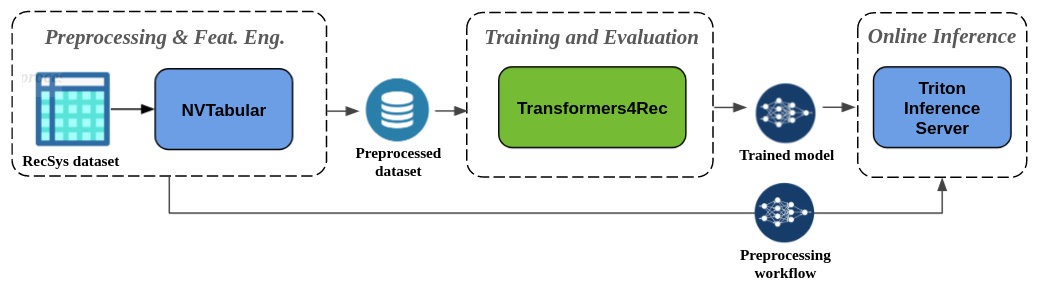
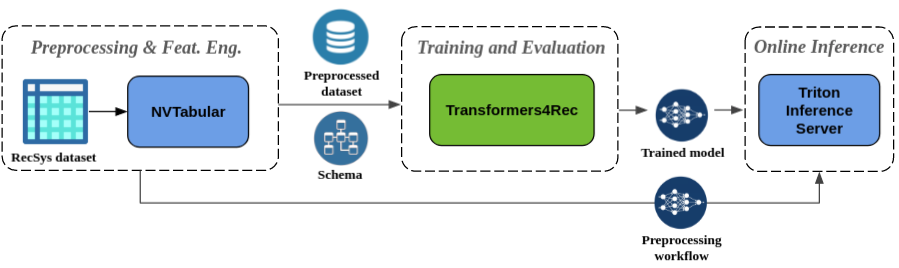
Adjustment in the docs according to Marc's feedbacks

Changed region(s): [[0.0, 0.0299, 0.9967, 0.9851], [0.0, 0.0299, 0.3115, 0.0597], [0.436, 0.0299, 0.6852, 0.0597]]

diff --git a/docs/source/core_features.md b/docs/source/core_features.md
@@ -2,9 +2,11 @@
 
 Over the past decade there has been a trend toward leveraging and adapting approaches proposed by Natural Language Processing (NLP) research like Word2Vec, GRU, and Attention for recommender systems (RecSys). The phenomena is especially noticeable for sequential and session-based recommendation where the sequential processing of users interactions is analogous to the language modeling (LM) task and many key RecSys architectures have been adapted from NLP, like GRU4Rec -- the seminal Recurrent Neural Network (RNN)-based architecture for session-based recommendation.
 
-More recently, Transformer architectures have become the dominant technique over convolutional and recurrent neural networks for language modeling tasks. Because of their efficient parallel training, these architectures scale well with training data and model size, and are effective at modeling long-range sequences. They have similarly been applied to sequential recommendation in architectures like SASRec, BERT4Rec and BST and more recently to session-based recommendation.
+More recently, Transformer architectures have become the dominant technique over convolutional and recurrent neural networks for language modeling tasks. Because of their efficient parallel training, these architectures scale well with training data and model size, and are effective at modeling long-range sequences. 
 
-You can read more about this relationship between NLP and RecSys and the evolution of the architectures for sequential and session-based recommendation in our [ACM RecSys'21 paper](https://github.com/NVIDIA-Merlin/publications/blob/main/2021_acm_recsys_transformers4rec/recsys21_transformers4rec_paper.pdf).
+Transformers have similarly been applied to sequential recommendation in architectures like [SASRec](https://arxiv.org/abs/1808.09781), [BERT4Rec](https://arxiv.org/abs/1904.06690) and [BST](https://arxiv.org/pdf/1905.06874.pdf%C2%A0), providing higher accuracy than architectures based on CNN and RNNs, as can be seen in their reported experiments and also in our [ACM RecSys'21 paper](https://github.com/NVIDIA-Merlin/publications/blob/main/2021_acm_recsys_transformers4rec/recsys21_transformers4rec_paper.pdf). 
+
+You can read more about this relationship between NLP and RecSys and the evolution of the architectures for sequential and session-based recommendation towards Transformers in our [paper](https://github.com/NVIDIA-Merlin/publications/blob/main/2021_acm_recsys_transformers4rec/recsys21_transformers4rec_paper.pdf) too.
 
 <div style="text-align: center; margin: 20pt"><img src="../../images/nlp_x_recsys.png" alt="A timeline illustrating the influence of NLP research in Recommender Systems" style="width:800px;"/><figcaption>Fig. 1 - A timeline illustrating the influence of NLP research in Recommender Systems, from the <a href="https://github.com/NVIDIA-Merlin/publications/blob/main/2021_acm_recsys_transformers4rec/recsys21_transformers4rec_paper.pdf)">Transformers4Rec paper</a></figcaption></div>
 
@@ -14,11 +16,11 @@ You can read more about this relationship between NLP and RecSys and the evoluti
 
 Transformers4Rec integrates with the [HuggingFace (HF) Transformers](https://github.com/huggingface/transformers) library, allowing RecSys researchers and practitioners to easily experiment with the latest and state-of-the-art NLP Transformer architectures for sequential and session-based recommendation tasks and deploy those models into production.
 
-The HF Transformers was *"established with the goal of opening up advancements in NLP to the wider machine learning community"*. It became very popular among NLP researchers and practitioners (more than 900 contributors), providing standardized implementations of the state-of-the-art Transformer architectures (more than 68 and counting) produced by the research community, often within days or weeks of their publication. 
+The HF Transformers was *"established with the goal of opening up advancements in NLP to the wider machine learning community"*. It has become very popular among NLP researchers and practitioners (more than 900 contributors), providing standardized implementations of the state-of-the-art Transformer architectures (more than 68 and counting) produced by the research community, often within days or weeks of their publication. 
 
 HF Transformers is designed for both research and production. Models are composed of three building blocks: (a) a tokenizer, which converts raw text to sparse index encodings; (b) a transformer architecture; and (c) a head for NLP tasks, like Text Classification, Generation, Sentiment Analysis, Translation, Summarization, among others. 
 
-In Transformers4Rec we leverage from HF Transformers only the transformer architectures building block (b) and their configuration classes, and provide additional blocks necessary for recommendation, e.g. input features normalization and aggregation, and heads for recommendation and sequence classification/prediction. We also extend their `Trainer` class to allow for the evaluation with RecSys metrics.
+In Transformers4Rec we leverage from HF Transformers only the transformer architectures building block (b) and their configuration classes. Transformers4Rec provides additional blocks necessary for recommendation, e.g., input features normalization and aggregation, and heads for recommendation and sequence classification/prediction. We also extend their `Trainer` class to allow for the evaluation with RecSys metrics.
 
 
 # Flexibility in Model Architecture
@@ -162,7 +164,21 @@ groupby_features = [
 )
 ```
 
+### Outputs
+
+NVTabular outputs parquet files with the preprocessed data. The parquet files can be (Hive) partitioned by a categorical column (e.g. day, company).
+
+**TODO: Include code snippet on how to save the output parquet files partitioned by a column**
+
+NVTabular also outputs a schema of the parquet columns in Profobuf Text format, e.g. including the cardinality of categorical features, the max squence length for sequential features and tags that can be associated to features (e.g. to indicate what is the item id, what are item and user features, what are categorical or continuous features). You can see [here](../../tests/assets/yoochoose/schema.pbtxt) an example of such schema in Protobuf Text format.
+P.s. If you don't use NVTabular to preprocess your data, you can generate the Schema via code.  
+
+**TODO: Include code snippet of how to define the Schema manualy using code**
+
 The NVTabular workflow can be saved after `workflow.fit()` is called, so that the same preproc workflow can be applied to new input data, either in batch or online (via integration with Triton Inference Server), described in the next section.
+
+**TODO: Include code snippet on how to save the NVTabular workflow**
+
 
 ## Integration with Triton Inference Server
 

diff --git a/README.md b/README.md
@@ -16,11 +16,14 @@ You can build a fully GPU-accelerated pipeline for sequential and session-based 
 ## Highlights
 
 - **Winning and SOTA solution**: We have leveraged and evolved the Transformers4Rec library to win two recent session-based recommendation competitions: the [WSDM WebTour Workshop Challenge 2021, organized by Booking.com](https://developer.nvidia.com/blog/how-to-build-a-winning-deep-learning-powered-recommender-system-part-3/), and the [SIGIR eCommerce Workshop Data Challenge 2021, organized by Coveo](https://medium.com/nvidia-merlin/winning-the-sigir-ecommerce-challenge-on-session-based-recommendation-with-transformers-v2-793f6fac2994). Furthermore, we have also done extensive empirical evaluation on the usage of Transformers4Rec for session-based recommendation, which was able to provide higher accuracy than baselines algorithms, as published in our [ACM RecSys'21 paper](https://github.com/NVIDIA-Merlin/publications/blob/main/2021_acm_recsys_transformers4rec/recsys21_transformers4rec_paper.pdf).
-- **Support to multiple input features**: Interaction and sequence-level input features can be normalized and combined in different ways
+
 - **Flexibility**: The building blocks are modularized and are compatible with vanilla PyTorch modules and TF Keras layers. You can create custom architectures, e.g. with multiple towers, multiple heads/tasks and losses.
 
 - **Production-ready**: Exports trained models to serve with Triton Inference Server in a single pipeline that includes online features preprocessing and model inference.
+
 - **Leverages cutting-edge NLP research**: With the integration with [HuggingFace Transformers](https://github.com/huggingface/transformers), you have available more than 64 different Transformer architectures (and counting) to evaluate for your sequential and session-based recommendation task.
+
+- **Support to multiple input features**: HF Transformers supports only sequence of token id as input, as it was originally designed for NLP. Due to the rich features available in RecSys datasets, transformers4Rec enables the usage of HF Transformers with any type of sequential tabular data. The library uses a schema format to configure the input features, and automatically creates the necessary layers (e.g. embedding tables, projection layers, output layers based on the target) without requiring code changes to include new features. Interaction and sequence-level input features can be normalized and combined in configurable ways. 
 
 - **Seamless preprocessing and feature engineering**: The integration with NVTabular has common preprocessing ops for session-based recommendation and exports a dataset schema compatible with Transformers4Rec, so that input features can be configured automatically.
 
@@ -38,7 +41,7 @@ Check the getting started and advanced examples [here](docs/source/core_features
 
 ## When to use it?
 ### Sequential and Session-based recommendation
-Traditional recommendation algorithms usually ignore the temporal dynamics and the sequence of interactions when trying to model user behaviour. Generally, the next user interaction is related to the sequence of his previous choices. In some cases, it might be even a repeated purchase or song play. User interests might also suffer from the interest drift, as his preferences might change over time. Those challenges are addressed by the **sequential recommendation** task. 
+Traditional recommendation algorithms usually ignore the temporal dynamics and the sequence of interactions when trying to model user behaviour. Generally, the next user interaction is related to the sequence of user's previous choices. In some cases, it might be even a repeated purchase or song play. User interests might also suffer from the interest drift, as preferences might change over time. Those challenges are addressed by the **sequential recommendation** task. 
 A special case of sequential-recommendation is the **session-based recommendation** task, where you have only access to the short sequence of interactions within the current session. This is very common in online services like e-commerce, news and media portals where the user might choose to browse anonymously (and due to GDPR compliance no cookies are collected), or because it is a new user. This task is also relevant for scenarios were users interests change a lot over time depending on the user context or intent, so leveraging the current session interactions is more promissing than old interactions to provide relevant recommendations.
 
 To deal with sequential and session-based recommendation, many sequence learning algorithms previously applied in machine learning and NLP research have been explored for RecSys, based on k-Nearest Neighbors, Frequent Pattern Mining, Hidden Markov Models, Recurrent Neural Networks, and more recently neural architectures using the Self-Attention Mechanism and the Transformer architectures. 
